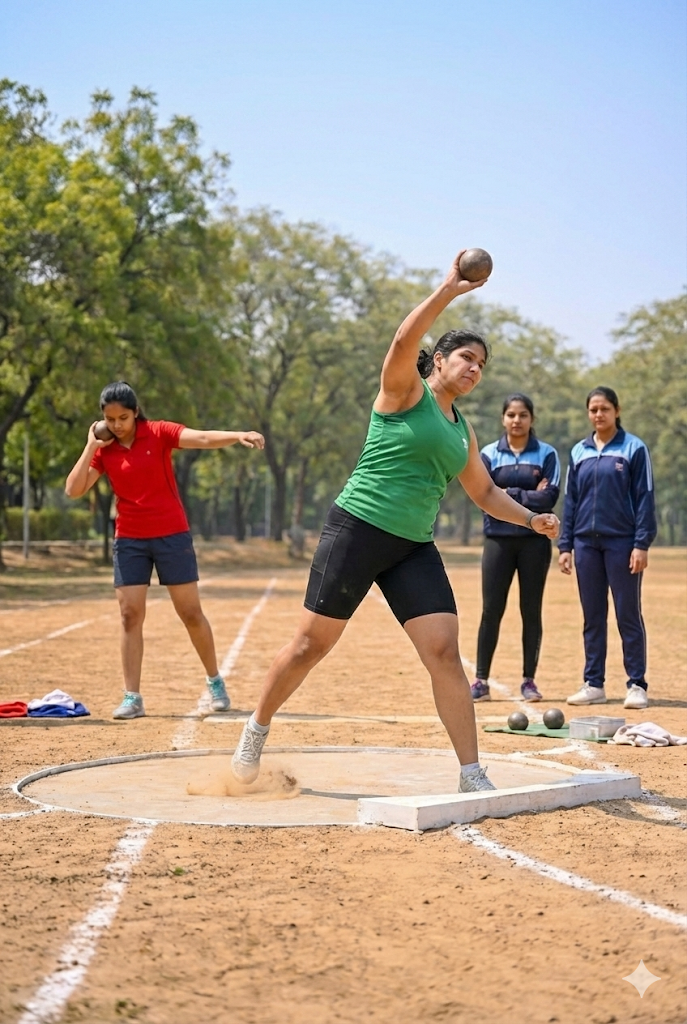
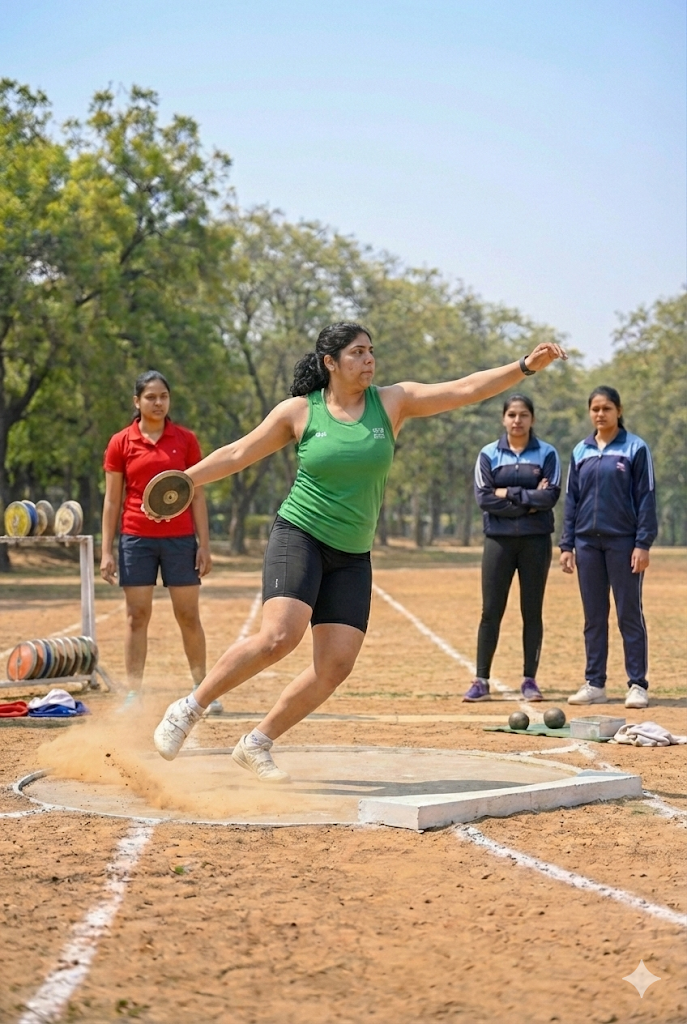
Refactor code structure for improved readability and maintainability

diff --git a/backend/scripts/uploadAthleticsImages.js b/backend/scripts/uploadAthleticsImages.js
@@ -1,0 +1,84 @@
+import cloudinary from "cloudinary";
+import dotenv from "dotenv";
+import path from "path";
+import { fileURLToPath } from "url";
+import fs from "fs";
+
+dotenv.config();
+
+const __filename = fileURLToPath(import.meta.url);
+const __dirname = path.dirname(__filename);
+
+// Configure Cloudinary
+cloudinary.v2.config({
+  cloud_name: process.env.CLOUDINARY_CLOUD_NAME,
+  api_key: process.env.CLOUDINARY_API_KEY,
+  api_secret: process.env.CLOUDINARY_API_SECRET,
+});
+
+async function uploadAthleticsImages() {
+  try {
+    console.log("\n🚀 Uploading athletics images to Cloudinary...\n");
+
+    const downloadsPath = path.join(process.env.HOME, "Downloads");
+    const files = fs.readdirSync(downloadsPath);
+    
+    // Find the most recent 4 image files (these should be the athletics images you just shared)
+    const imageFiles = files.filter(f => /\.(jpg|jpeg|png|heic)$/i.test(f));
+    
+    const sortedImages = imageFiles
+      .map(f => ({
+        name: f,
+        path: path.join(downloadsPath, f),
+        mtime: fs.statSync(path.join(downloadsPath, f)).mtime
+      }))
+      .sort((a, b) => b.mtime - a.mtime)
+      .slice(0, 4); // Get the 4 most recent images
+
+    if (sortedImages.length < 4) {
+      console.log("❌ Need 4 images for javelin, hammer, shotput, and discus");
+      console.log("Please save all 4 images to Downloads folder and run again.");
+      process.exit(1);
+    }
+
+    const sportNames = ["javelin", "hammer-throw", "shotput", "discus"];
+    const results = [];
+
+    for (let i = 0; i < 4; i++) {
+      const imagePath = sortedImages[i].path;
+      const sportName = sportNames[i];
+      
+      console.log(`${i + 1}. Uploading ${sportName}...`);
+      console.log(`   File: ${sortedImages[i].name}`);
+
+      const result = await cloudinary.v2.uploader.upload(imagePath, {
+        folder: "zenith-26/img/women-athletics",
+        public_id: sportName,
+        overwrite: true,
+        resource_type: "image",
+        quality: "auto:best",
+        fetch_format: "auto",
+      });
+
+      console.log(`   ✅ Uploaded: ${result.secure_url}\n`);
+      results.push({ sport: sportName, url: result.secure_url });
+    }
+
+    console.log("=" .repeat(70));
+    console.log("\n🎉 All athletics images uploaded successfully!\n");
+    console.log("📋 URLs for Women's Tournament Page:\n");
+    
+    results.forEach(r => {
+      console.log(`${r.sport.toUpperCase().padEnd(15)}: ${r.url}`);
+    });
+
+    console.log("\n" + "=" .repeat(70));
+
+    process.exit(0);
+  } catch (error) {
+    console.error("❌ Error uploading images:", error);
+    process.exit(1);
+  }
+}
+
+uploadAthleticsImages();

diff --git a/frontend/src/pages/WomenTournamentPage.jsx b/frontend/src/pages/WomenTournamentPage.jsx
@@ -286,8 +286,7 @@ const WomenTournamentPage = () => {
       id: "shotput",
       name: "Shotput",
       icon: ShotputIcon,
-      image:
-        "https://res.cloudinary.com/dvmsho3pj/image/upload/f_auto,q_auto/v1767543732/zenith-26/img/category2/Athletics.png",
+      image: "/img/Shotput.png",
       color: "from-gray-600 to-slate-700",
       teamSize: 1,
       category: "category2",
@@ -304,8 +303,7 @@ const WomenTournamentPage = () => {
       id: "discus",
       name: "Discus",
       icon: DiscusIcon,
-      image:
-        "https://res.cloudinary.com/dvmsho3pj/image/upload/f_auto,q_auto/v1767543732/zenith-26/img/category2/Athletics.png",
+      image: "/img/discus.png",
       color: "from-blue-600 to-indigo-700",
       teamSize: 1,
       category: "category2",
@@ -322,8 +320,7 @@ const WomenTournamentPage = () => {
       id: "javelin",
       name: "Javelin",
       icon: JavelinIcon,
-      image:
-        "https://res.cloudinary.com/dvmsho3pj/image/upload/f_auto,q_auto/v1767543732/zenith-26/img/category2/Athletics.png",
+      image: "/img/javlin.png",
       color: "from-green-600 to-teal-700",
       teamSize: 1,
       category: "category2",
@@ -340,8 +337,7 @@ const WomenTournamentPage = () => {
       id: "hammer",
       name: "Hammer Throw",
       icon: HammerIcon,
-      image:
-        "https://res.cloudinary.com/dvmsho3pj/image/upload/f_auto,q_auto/v1767543732/zenith-26/img/category2/Athletics.png",
+      image: "/img/hammerthrow.png",
       color: "from-purple-600 to-violet-700",
       teamSize: 1,
       category: "category2",
